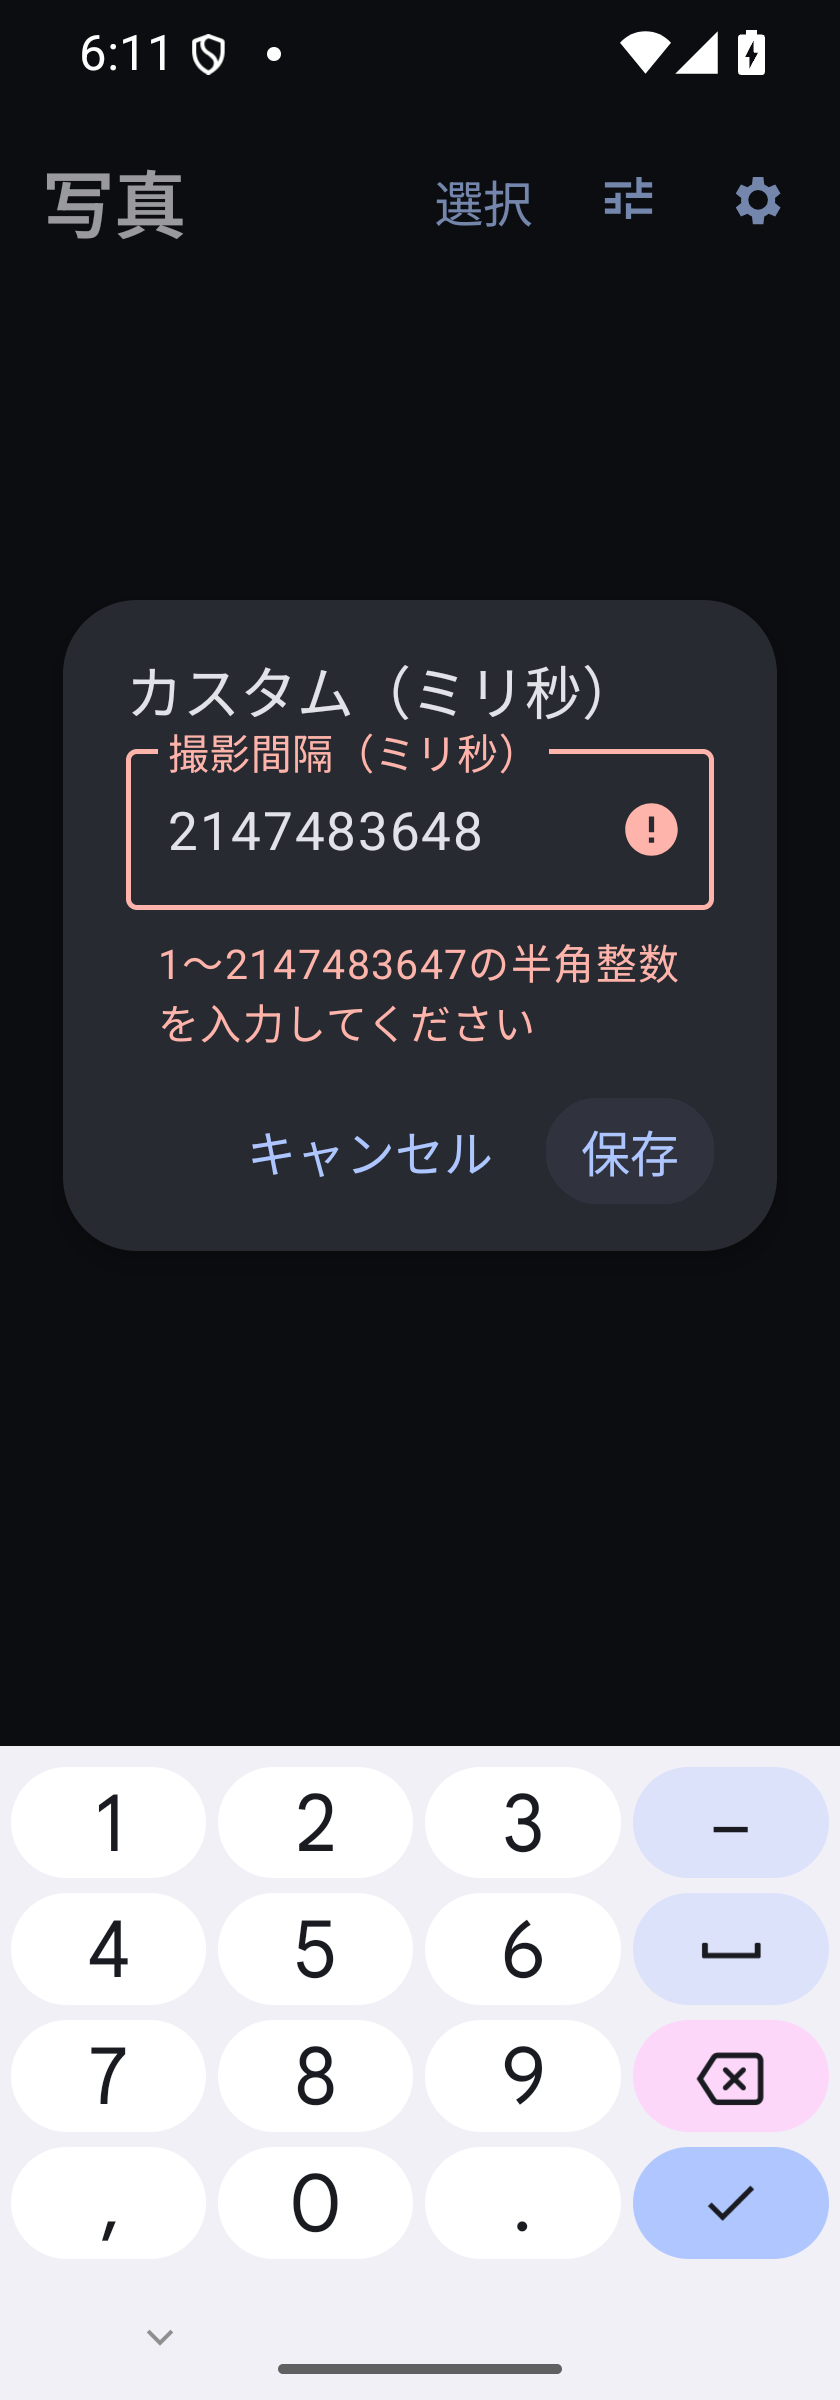
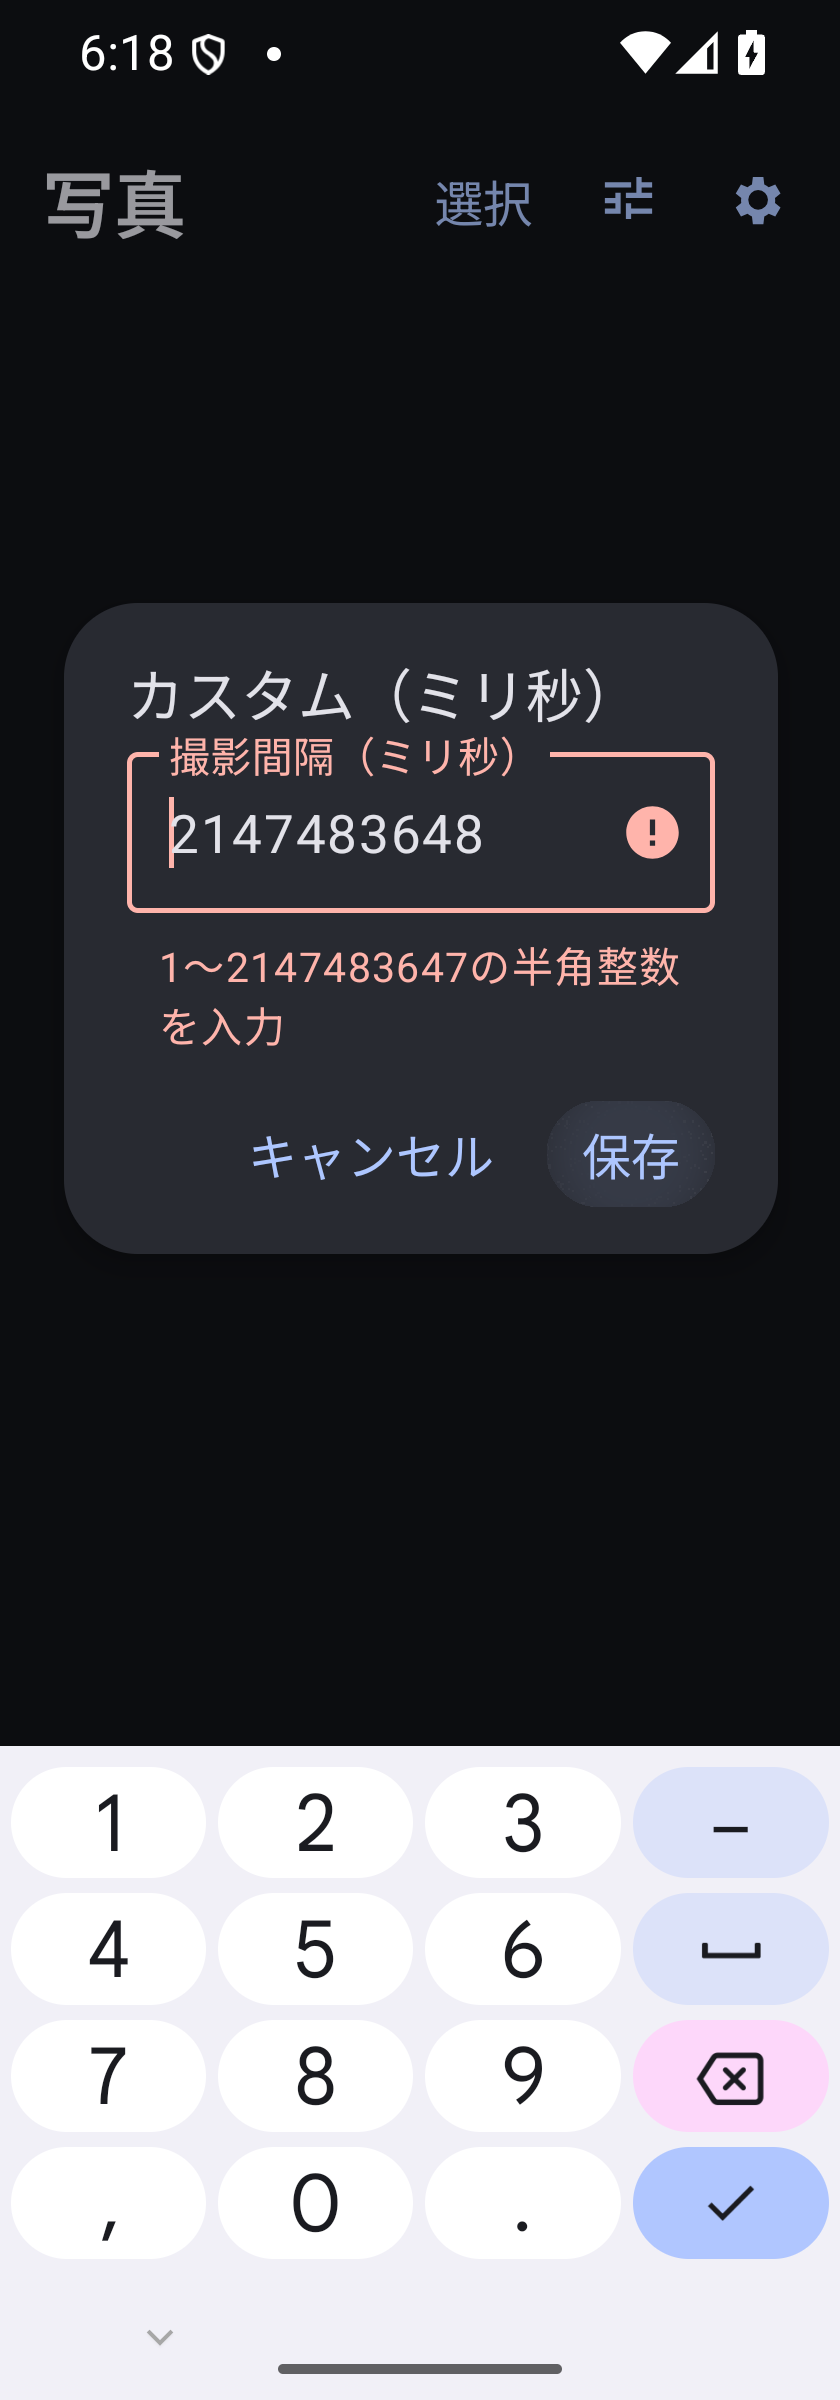
ミリ秒設定のAndroid検証と画面確認を完了する
Refs #188. debug/androidTest/lint、関連host検証、411dp/font1.0と320dp/font1.3のburst-gap-millis、既存index-signatureが成功。Cold/Security/UIの独立レビュー合格。検査側のIME・遷移・scroll同期失敗を修正して同じ操作を再検証。物理実機未確認、小数秒EXIF抽出 #189 の対応範囲回答待ち。

diff --git a/app/src/androidTest/java/jp/nano/rawgallery/BurstGapChecks.java b/app/src/androidTest/java/jp/nano/rawgallery/BurstGapChecks.java
@@ -1,23 +1,35 @@
 package jp.nano.rawgallery;
 
+import android.accessibilityservice.AccessibilityServiceInfo;
 import android.app.Instrumentation;
+import android.content.ContentValues;
 import android.content.Context;
 import android.content.Intent;
 import android.content.SharedPreferences;
 import android.database.Cursor;
 import android.graphics.Bitmap;
 import android.graphics.Rect;
+import android.net.Uri;
+import android.os.Bundle;
 import android.os.SystemClock;
+import android.provider.MediaStore;
 import android.view.KeyEvent;
 import android.view.MotionEvent;
 import android.view.View;
+import android.view.accessibility.AccessibilityWindowInfo;
 import android.widget.ListView;
 import com.google.android.material.textfield.TextInputLayout;
 import java.io.File;
 import java.io.FileOutputStream;
+import java.nio.file.Files;
+import java.util.ArrayList;
 import java.util.List;
+import java.util.UUID;
+import java.util.concurrent.CountDownLatch;
 import java.util.concurrent.TimeUnit;
 import java.util.concurrent.atomic.AtomicInteger;
+import java.util.function.Predicate;
+import java.util.stream.Collectors;
 
 import static jp.nano.rawgallery.TagDetailChecks.require;
 import static jp.nano.rawgallery.TagDetailChecks.ui;
@@ -32,6 +44,8 @@ final class BurstGapChecks {
     Integer previousMillis = prefs.contains(millis) ? prefs.getInt(millis, 0) : null;
     Integer previousSeconds = prefs.contains(seconds) ? prefs.getInt(seconds, 0) : null;
     MainActivity activity = null;
+    List<Uri> fixtures = new ArrayList<>();
+    Throwable failure = null;
     try {
       require(prefs.edit().remove(millis).putInt(seconds, 1).commit(), "seed legacy value");
       activity = (MainActivity) test.startActivitySync(new Intent(context, MainActivity.class)
@@ -47,12 +61,27 @@ final class BurstGapChecks {
 
       View editor = openCustom(test, activity, 1, "1000");
       TextInputLayout field = field(editor);
-      int[] closedBottom = new int[1];
-      ui(test, () -> closedBottom[0] = visibleFrame(editor).bottom);
+      var automation = test.getUiAutomation();
+      var service = automation.getServiceInfo();
+      android.util.Log.i("LoupeBurstGapCheck", "interactive window flag before request: "
+          + ((service.flags & AccessibilityServiceInfo.FLAG_RETRIEVE_INTERACTIVE_WINDOWS) != 0));
+      service.flags |= AccessibilityServiceInfo.FLAG_RETRIEVE_INTERACTIVE_WINDOWS;
+      automation.setServiceInfo(service);
       tap(test, field.getEditText());
-      ExpressiveUiChecks.awaitUi(test, 5000,
-          () -> closedBottom[0] - visibleFrame(editor).bottom > GalleryUi.dp(activityContext(editor), 48),
-          "numeric keyboard shown and dialog resized");
+      Rect keyboard;
+      try {
+        keyboard = awaitKeyboard(test);
+      } catch (AssertionError absent) {
+        capture(test, editor, captures, prefix + "-keyboard-probe");
+        throw absent;
+      }
+      ui(test, () -> {
+        require(field.getEditText().getInputType() == android.text.InputType.TYPE_CLASS_NUMBER,
+            "number input requested");
+        require(bottom(TagDetailChecks.button(editor, "保存")) <= keyboard.top
+            && bottom(TagDetailChecks.button(editor, "キャンセル")) <= keyboard.top,
+            "dialog actions stay above the keyboard");
+      });
       ui(test, () -> field.getEditText().setText("350"));
       capture(test, editor, captures, prefix + "-custom-keyboard");
       ui(test, () -> field.getEditText().setText("2147483648"));
@@ -64,6 +93,8 @@ final class BurstGapChecks {
       });
       capture(test, editor, captures, prefix + "-invalid");
       tap(test, TagDetailChecks.button(editor, "キャンセル"));
+      awaitClosed(test, editor);
+      awaitKeyboardClosed(test);
       requireUnchanged(prefs, context, before);
 
       View backEditor = openCustom(test, activity, 1, "1000");
@@ -100,26 +131,149 @@ final class BurstGapChecks {
       tap(test, TagDetailChecks.button(savedEditor, "キャンセル"));
       awaitClosed(test, savedEditor);
 
-      View preset = openPicker(test, activity);
-      tap(test, list(preset).getChildAt(0));
-      awaitClosed(test, preset);
-      require(prefs.getInt(millis, -1) == 0, "off preset saves immediately using canonical key");
-      GalleryScreenChecks.finishInitialIndex(test, activity);
-      require(signature(context).contains(":burst-gap-ms:0:"), "off preset index rebuilt");
-
+      checkStaleBurst(test, activity, prefs, fixtures);
       checkRetry(test, activity);
       return "PASS " + prefix + " numeric keyboard, visible validation, cancel/Back/outside, exact save, "
-          + "reopen, preset, index signature and failed-save retry; restored test preferences.\n";
+          + "reopen, preset, stale burst/selection guard, individual photos after rebuild, index signature, "
+          + "and failed-save retry; restored test preferences and removed fixture photos.\n";
+    } catch (Exception | AssertionError error) {
+      failure = error;
+      throw error;
     } finally {
-      if (activity != null) ui(test, activity::finish);
-      var restore = prefs.edit();
-      if (previousMillis == null) restore.remove(millis);
-      else restore.putInt(millis, previousMillis);
-      if (previousSeconds == null) restore.remove(seconds);
-      else restore.putInt(seconds, previousSeconds);
-      require(restore.commit(), "restore burst preferences");
-      GalleryIndex.WORKER.submit(() -> GalleryIndex.rebuild(context, false, () -> false))
-          .get(30, TimeUnit.SECONDS);
+      var cleanup = new ArrayList<Throwable>();
+      MainActivity launched = activity;
+      if (launched != null) cleanup(cleanup, () -> ui(test, launched::finish));
+      cleanup(cleanup, () -> {
+        var restore = prefs.edit();
+        if (previousMillis == null) restore.remove(millis);
+        else restore.putInt(millis, previousMillis);
+        if (previousSeconds == null) restore.remove(seconds);
+        else restore.putInt(seconds, previousSeconds);
+        require(restore.commit(), "restore burst preferences");
+      });
+      for (Uri fixture : fixtures) {
+        cleanup(cleanup, () -> require(context.getContentResolver().delete(fixture, null, null) == 1,
+            "remove owned fixture"));
+      }
+      cleanup(cleanup, () -> GalleryIndex.WORKER.submit(() -> GalleryIndex.rebuild(context, false, () -> false))
+          .get(30, TimeUnit.SECONDS));
+      if (!cleanup.isEmpty()) {
+        Throwable reported = failure == null ? new AssertionError("burst test cleanup failed") : failure;
+        cleanup.forEach(reported::addSuppressed);
+        if (failure == null) throw (AssertionError) reported;
+      }
+    }
+  }
+
+  @FunctionalInterface
+  private interface CleanupAction { void run() throws Exception; }
+
+  private static void cleanup(List<Throwable> failures, CleanupAction action) {
+    try {
+      action.run();
+    } catch (Exception | AssertionError error) {
+      failures.add(error);
+    }
+  }
+
+  private static void checkStaleBurst(Instrumentation test, MainActivity activity,
+      SharedPreferences prefs, List<Uri> fixtures) throws Exception {
+    String folder = "Pictures/LoupeBurstGap-" + UUID.randomUUID() + "/";
+    seedBurst(activity, folder, fixtures);
+    GalleryIndex.WORKER.submit(() -> GalleryIndex.rebuild(activity, true, () -> false))
+        .get(30, TimeUnit.SECONDS);
+    ui(test, () -> {
+      RankingResultChecks.set(activity, "albumFolder", folder);
+      RankingResultChecks.call(activity, "gallery");
+      RankingResultChecks.call(activity, "loadIndexedPhotos");
+    });
+    GalleryScreenChecks.settle(test, activity);
+    ui(test, () -> require(RankingResultChecks.get(activity, "bundles").equals(List.of(List.of(0, 1))),
+        "fixture JPEGs start in one indexed burst"));
+    tap(test, GalleryScreenChecks.firstPhoto(activity.getWindow().getDecorView()));
+    Bundle pendingRestore = new Bundle();
+    ui(test, () -> {
+      require(RankingResultChecks.get(activity, "burstMembers") != null, "open fixture burst");
+      pendingRestore.putStringArrayList("burst", fixtures.stream()
+          .map(Uri::toString).collect(Collectors.toCollection(ArrayList::new)));
+      RankingResultChecks.set(activity, "pendingRestore", pendingRestore);
+      TagDetailChecks.button(activity.getWindow().getDecorView(), "その他").performClick();
+    });
+    View preset = openPickerFromMenu(test, activity);
+    var workerEntered = new CountDownLatch(1);
+    var releaseWorker = new CountDownLatch(1);
+    GalleryIndex.WORKER.submit(() -> {
+      workerEntered.countDown();
+      require(releaseWorker.await(20, TimeUnit.SECONDS), "release paused index worker");
+      return null;
+    });
+    try {
+      require(workerEntered.await(10, TimeUnit.SECONDS), "pause index worker before save");
+      ListView choices = list(preset);
+      ui(test, () -> choices.setSelectionFromTop(0, 0));
+      ConsistencyLayoutChecks.frame(test, preset);
+      View off = choices.getChildAt(0);
+      ui(test, () -> {
+        Rect visible = new Rect();
+        require(choices.getFirstVisiblePosition() == 0 && off.getGlobalVisibleRect(visible)
+            && visible.height() == off.getHeight(), "off preset is fully visible after scrolling");
+      });
+      tap(test, off);
+      awaitClosed(test, preset);
+      require(prefs.getInt(BurstGapSettings.MILLIS, -1) == 0, "off preset saves immediately");
+      GalleryScreenChecks.settle(test, activity);
+      tap(test, GalleryScreenChecks.firstPhoto(activity.getWindow().getDecorView()));
+      ui(test, () -> {
+        require(RankingResultChecks.get(activity, "burstMembers") == null
+            && RankingResultChecks.get(activity, "grid") != null, "old group does not reopen");
+        require(!pendingRestore.containsKey("burst"), "saved scope cannot restore the old burst");
+        TagDetailChecks.button(activity.getWindow().getDecorView(), "選択").performClick();
+        require(!(boolean) RankingResultChecks.get(activity, "selecting"), "old selection route is blocked");
+      });
+      require(signature(activity).contains(":burst-gap-ms:350:"), "worker still paused at old index");
+    } finally {
+      releaseWorker.countDown();
+    }
+    GalleryScreenChecks.finishInitialIndex(test, activity);
+    require(signature(activity).contains(":burst-gap-ms:0:"), "off preset index rebuilt");
+    ui(test, () -> require(RankingResultChecks.get(activity, "bundles").equals(List.of(List.of(0), List.of(1))),
+        "new index splits the same fixture images into individual photos"));
+  }
+
+  private static void seedBurst(Context context, String folder, List<Uri> fixtures) throws Exception {
+    File jpeg = File.createTempFile("burst-gap-", ".jpg", context.getCacheDir());
+    try {
+      Bitmap bitmap = Bitmap.createBitmap(24, 24, Bitmap.Config.ARGB_8888);
+      bitmap.eraseColor(0xff486381);
+      try (var out = new FileOutputStream(jpeg)) {
+        require(bitmap.compress(Bitmap.CompressFormat.JPEG, 90, out), "encode fixture JPEG");
+      } finally {
+        bitmap.recycle();
+      }
+      var exif = new android.media.ExifInterface(jpeg.getPath());
+      exif.setAttribute(android.media.ExifInterface.TAG_MODEL, "Loupe Fixture");
+      exif.setAttribute(android.media.ExifInterface.TAG_DATETIME_ORIGINAL, "2026:11:24 12:34:56");
+      exif.setAttribute(android.media.ExifInterface.TAG_OFFSET_TIME_ORIGINAL, "+00:00");
+      exif.saveAttributes();
+      var resolver = context.getContentResolver();
+      for (int i = 0; i < 2; i++) {
+        var values = new ContentValues();
+        values.put(MediaStore.MediaColumns.DISPLAY_NAME, "fixture-" + i + ".jpg");
+        values.put(MediaStore.MediaColumns.MIME_TYPE, "image/jpeg");
+        values.put(MediaStore.MediaColumns.RELATIVE_PATH, folder);
+        values.put(MediaStore.MediaColumns.IS_PENDING, 1);
+        Uri fixture = resolver.insert(MediaStore.Images.Media.EXTERNAL_CONTENT_URI, values);
+        require(fixture != null, "insert fixture");
+        fixtures.add(fixture);
+        try (var out = resolver.openOutputStream(fixture)) {
+          Files.copy(jpeg.toPath(), out);
+        }
+        values.clear();
+        values.put(MediaStore.MediaColumns.IS_PENDING, 0);
+        require(resolver.update(fixture, values, null, null) == 1, "publish fixture");
+      }
+    } finally {
+      Files.deleteIfExists(jpeg.toPath());
     }
   }
 
@@ -129,7 +283,7 @@ final class BurstGapChecks {
       require(value == 350, "retry receives retained draft");
       return attempts.incrementAndGet() == 2;
     }));
-    View editor = ShareScreenChecks.modal(test, activity);
+    View editor = modal(test, activity, view -> field(view) != null);
     tap(test, TagDetailChecks.button(editor, "保存"));
     ui(test, () -> {
       require(editor.hasWindowFocus() && field(editor).getError() != null, "failed save keeps dialog and reports error");
@@ -164,11 +318,15 @@ final class BurstGapChecks {
 
   private static View openPicker(Instrumentation test, MainActivity activity) throws Exception {
     ui(test, () -> ExpressiveUiChecks.description(activity.getWindow().getDecorView(), "設定とその他").performClick());
-    View menu = ShareScreenChecks.modal(test, activity);
+    return openPickerFromMenu(test, activity);
+  }
+
+  private static View openPickerFromMenu(Instrumentation test, MainActivity activity) throws Exception {
+    View menu = modal(test, activity, view -> TagDetailChecks.button(view, "設定とその他") != null);
     ui(test, () -> TagDetailChecks.button(menu, "設定とその他").performClick());
-    View settings = ShareScreenChecks.modal(test, activity);
+    View settings = modal(test, activity, view -> TagDetailChecks.button(view, "連写のまとめ方") != null);
     ui(test, () -> TagDetailChecks.button(settings, "連写のまとめ方").performClick());
-    return ShareScreenChecks.modal(test, activity);
+    return modal(test, activity, view -> list(view) != null);
   }
 
   private static View openCustom(Instrumentation test, MainActivity activity, int checked, String shown)
@@ -180,7 +338,8 @@ final class BurstGapChecks {
       int checked, String shown) throws Exception {
     ui(test, () -> require(list(picker).getCheckedItemPosition() == checked, "correct choice checked"));
     tap(test, list(picker).getChildAt(4));
-    View editor = ShareScreenChecks.modal(test, activity);
+    awaitClosed(test, picker);
+    View editor = modal(test, activity, view -> field(view) != null);
     ui(test, () -> {
       require(field(editor).getEditText().getText().toString().equals(shown), "custom input prefilled");
       var node = field(editor).getEditText().createAccessibilityNodeInfo();
@@ -192,12 +351,62 @@ final class BurstGapChecks {
 
   private static ListView list(View picker) { return ExpressiveUiChecks.find(picker, ListView.class); }
   private static TextInputLayout field(View editor) { return ExpressiveUiChecks.find(editor, TextInputLayout.class); }
-  private static Context activityContext(View view) { return view.getContext(); }
+
+  private static View modal(Instrumentation test, MainActivity activity, Predicate<View> matches)
+      throws Exception {
+    View[] target = new View[1];
+    ExpressiveUiChecks.awaitUi(test, 5000, () -> {
+      for (View window : android.view.inspector.WindowInspector.getGlobalWindowViews()) {
+        if (window != activity.getWindow().getDecorView() && window.hasWindowFocus() && matches.test(window)) {
+          target[0] = window;
+          return true;
+        }
+      }
+      return false;
+    }, "expected modal gains focus");
+    ConsistencyLayoutChecks.frame(test, target[0]);
+    return target[0];
+  }
 
   private static Rect visibleFrame(View root) {
     Rect result = new Rect();
     root.getWindowVisibleDisplayFrame(result);
     return result;
+  }
+
+  private static Rect awaitKeyboard(Instrumentation test) throws Exception {
+    long deadline = SystemClock.uptimeMillis() + 5000;
+    do {
+      Rect bounds = keyboardBounds(test);
+      if (bounds != null) return bounds;
+      Thread.sleep(50);
+    } while (SystemClock.uptimeMillis() < deadline);
+    throw new AssertionError("numeric keyboard is not visible");
+  }
+
+  private static void awaitKeyboardClosed(Instrumentation test) throws Exception {
+    long deadline = SystemClock.uptimeMillis() + 5000;
+    do {
+      if (keyboardBounds(test) == null) return;
+      Thread.sleep(50);
+    } while (SystemClock.uptimeMillis() < deadline);
+    throw new AssertionError("numeric keyboard did not dismiss");
+  }
+
+  private static Rect keyboardBounds(Instrumentation test) {
+    for (var window : test.getUiAutomation().getWindows()) {
+      if (window.getType() != AccessibilityWindowInfo.TYPE_INPUT_METHOD) continue;
+      Rect bounds = new Rect();
+      window.getBoundsInScreen(bounds);
+      if (!bounds.isEmpty()) return bounds;
+    }
+    return null;
+  }
+
+  private static int bottom(View view) {
+    int[] point = new int[2];
+    view.getLocationOnScreen(point);
+    return point[1] + view.getHeight();
   }
 
   private static void awaitClosed(Instrumentation test, View dialog) throws Exception {

diff --git a/app/src/main/java/jp/nano/rawgallery/BurstGapDialog.java b/app/src/main/java/jp/nano/rawgallery/BurstGapDialog.java
@@ -72,7 +72,7 @@ final class BurstGapDialog {
     dialog.getButton(AlertDialog.BUTTON_POSITIVE).setOnClickListener(v -> {
       int value = BurstGapSettings.parseCustomMillis(input.getText().toString());
       if (value == 0) {
-        field.setError("1〜2147483647の半角整数を入力してください");
+        field.setError("1〜2147483647の半角整数を入力");
       } else if (!save.test(value)) {
         field.setError(SAVE_ERROR);
       } else {

diff --git a/docs/design/burst-gap-millis/README.md b/docs/design/burst-gap-millis/README.md
@@ -15,3 +15,30 @@ Androidエミュレータemulator-5580に既存導入されていたLoupe 0.31.5
 ## 確認の範囲
 
 エミュレータの画面記録は、物理端末での表示・キーボード・操作や常用版APK導入の確認と区別する。変更後の操作結果と未確認項目はissueへ記録する。
+
+## 変更後
+
+検査用APKはLoupe 0.31.59（versionCode 223）、専用エミュレータemulator-5580で取得した。通常幅411dp/font1.0と320dp/font1.3、density420、縦画面のOSバーを含むcapture。画面データは空の検査UIで、写真原本を表示していない。
+
+| 状態 | 通常幅 | 320dp/font1.3 |
+| --- | --- | --- |
+| 数字キーボードと入力 | [画像](after-normal-keyboard.png) | [画像](after-narrow-keyboard.png) |
+| 不正値とエラー | [画像](after-normal-invalid.png) | [画像](after-narrow-invalid.png) |
+| 保存した350msの選択表示 | [画像](after-normal-selected.png) | [画像](after-narrow-selected.png) |
+
+狭幅の選択一覧は選択されたカスタム値までスクロールした状態であり、最上部の「まとめない」はこの位置では一部だけが見える。スクロール操作の検証結果はissueのAndroid検査記録に分けて残す。
+
+配置の独立UI評価、コードのCold Review、変更範囲のSecurity Reviewと修正結果はissueを参照する。静止画だけで読み上げ・操作・保存・失敗復帰を検証済みとはしない。物理端末とTalkBack音声は未確認。
+
+## 最終確認
+
[1 lines of base64/hex data omitted]
+
+UIレビューは最終6枚について合格。通常幅のエラー文末1文字だけの改行を解消した。IME/ダイアログ遷移とスクロール位置の検査側の失敗は修正後に同じ操作で再確認した。端末の表示設定は1080×2400px、density420、font1.0へ復元した。
+
+専用エミュレータでの再実行は、検査APK導入後に以下のmodeを指定する。検査は作成した合成写真のみ削除し、設定を復元する。常用端末への検証APK導入は開発手順のgateに従う。
+
+```sh
+adb -s emulator-5580 shell am instrument -w -r -e mode burst-gap-millis jp.nano.rawgallery.test/jp.nano.rawgallery.ArchiveInstrumentation
+adb -s emulator-5580 shell am instrument -w -r -e mode index-signature jp.nano.rawgallery.test/jp.nano.rawgallery.ArchiveInstrumentation
+```
